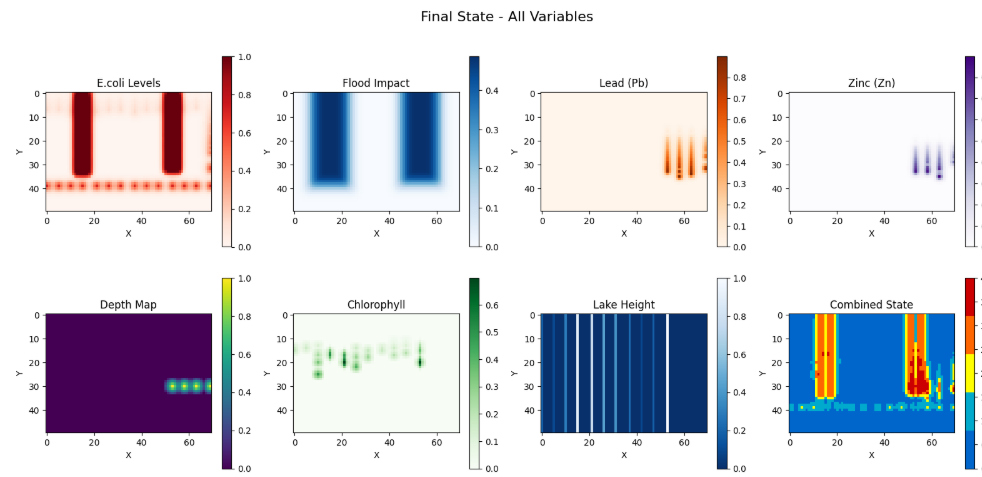
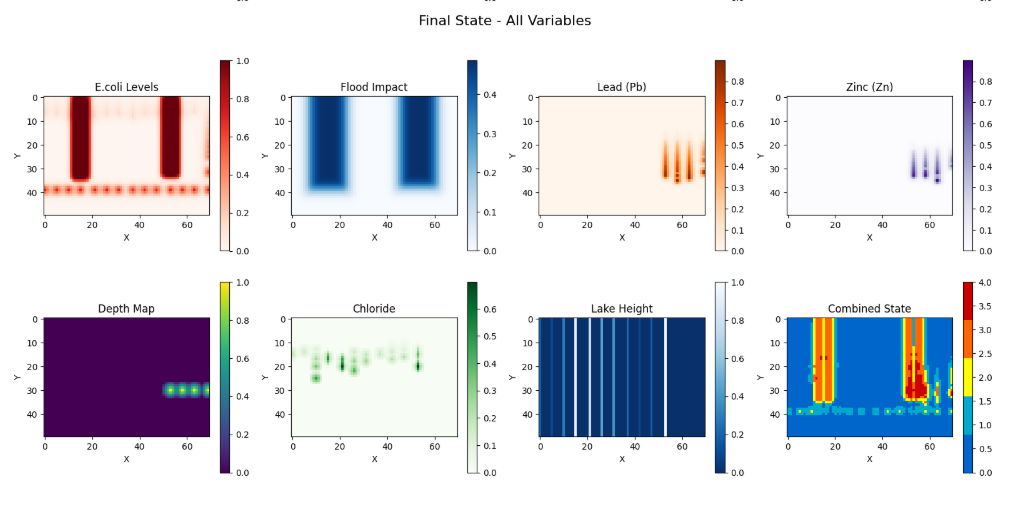
commit new photos
commit new photos

Changed region(s): [[0.0, 0.1174, 1.0, 0.9979], [0.3971, 0.0, 0.611, 0.0587]]

diff --git a/code/StatisticsComponents/CorrelationScatter.jsx b/code/StatisticsComponents/CorrelationScatter.jsx
@@ -106,7 +106,7 @@ export default function CorrelationScatter() {
       const url = canvas.toDataURL('image/jpeg', 1.0);
       const link = document.createElement('a');
       link.href = url;
-      link.download = 'chlorophyll-ecoli-correlation.jpg';
+      link.download = 'Chloride-ecoli-correlation.jpg';
       document.body.appendChild(link);
       link.click();
       document.body.removeChild(link);
@@ -124,7 +124,7 @@ export default function CorrelationScatter() {
           <div className="bg-white border rounded-lg p-4">
             <div className="flex justify-between items-center mb-4">
               <h3 className="text-lg font-bold">
-                Correlation: Chlorophyll-a vs E.coli
+                Correlation: Chloride vs E.coli
               </h3>
               <button
                 onClick={handleDownload}
@@ -143,7 +143,7 @@ export default function CorrelationScatter() {
                 data={{
                   datasets: [
                     {
-                      label: 'Chlorophyll-a vs E.coli',
+                      label: 'Chloride vs E.coli',
                       data: mergedPoints,
                       backgroundColor: 'rgba(54,162,235,0.6)',
                       borderColor: 'rgba(54,162,235,1)',
@@ -175,7 +175,7 @@ export default function CorrelationScatter() {
                         label: function(context) {
                           if (context.datasetIndex === 0) {
                             const point = mergedPoints[context.dataIndex];
-                            return `Chlorophyll-a: ${context.parsed.x.toFixed(2)}, E.coli: ${context.parsed.y.toFixed(2)} (${point?.year}/${point?.month})`;
+                            return `Chloride: ${context.parsed.x.toFixed(2)}, E.coli: ${context.parsed.y.toFixed(2)} (${point?.year}/${point?.month})`;
                           }
                           return context.dataset.label;
                         }
@@ -186,7 +186,7 @@ export default function CorrelationScatter() {
                     x: {
                       title: { 
                         display: true, 
-                        text: 'Chlorophyll-a (µg/L)', 
+                        text: 'Chloride (µg/L)', 
                         font: { size: 14, weight: 'bold' } 
                       },
                       grid: { color: 'rgba(0,0,0,0.1)' },
@@ -214,7 +214,7 @@ export default function CorrelationScatter() {
                 </div>
                 {crossTableCorrelation !== null && (
                   <div className="mt-1 text-xs text-blue-700 text-center">
-                    A low correlation coefficient between chlorophyll and E.coli can actually indicate a positive or normal situation regarding pollution.
+                    A low correlation coefficient between Chloride and E.coli can actually indicate a positive or normal situation regarding pollution.
                   </div>
                 )}
                 {crossTableCorrelation !== null && (

diff --git a/code/StatisticsComponents/ChemicalChart.jsx b/code/StatisticsComponents/ChemicalChart.jsx
@@ -60,7 +60,7 @@ const ChemicalChart = ({ chartData, hasAnimated }) => {
             onChange={(e) => setSelectedChemical(e.target.value)}
             className="border rounded px-3 py-1 text-sm"
           >
-            <option value="chlorophyll">Chlorophyll-a</option>
+            <option value="chlorophyll">Chloride</option>
             <option value="nitrate">Nitrate</option>
             <option value="nitrite">Nitrite</option>
           </select>
@@ -168,8 +168,8 @@ const ChemicalChart = ({ chartData, hasAnimated }) => {
             <div className="mt-4 px-2 text-gray-700 text-sm text-left">
               {selectedChemical === 'chlorophyll' ? (
                 <>
-                  <b>What is measured?</b> Chlorophyll‑a is a marker for algal biomass and blooms. High values indicate nutrient enrichment (eutrophication) and reduced water clarity.<br/>
-                  <b>Trends:</b> An increase over the months may indicate seasonal blooms or pollution, while a decrease suggests cleaner water.
+                  <b>What is measured?</b> Chloride (mg/L) is a common ion in water, often originating from natural sources or pollution such as road salts and sewage. High values may indicate contamination.<br/>
+      <b>Trends:</b> An increase over the months may indicate pollution or saltwater intrusion, while a decrease suggests improving water quality.
                 </>
               ) : selectedChemical === 'nitrate' ? (
                 <>

diff --git a/code/StatisticsComponents/ChemicalExtremesBar.jsx b/code/StatisticsComponents/ChemicalExtremesBar.jsx
@@ -73,12 +73,12 @@ const ChemicalExtremesBar = () => {
     if (activeChemical === 'chl') {
       datasets = [
         {
-          label: 'Max Chlorophyll-a',
+          label: 'Max Chloride',
           data: years.map(y => yearly[y].chl.length ? Math.max(...yearly[y].chl) : null),
           backgroundColor: 'rgba(34,197,94,0.7)'
         },
         {
-          label: 'Min Chlorophyll-a',
+          label: 'Min Chloride',
           data: years.map(y => yearly[y].chl.length ? Math.min(...yearly[y].chl) : null),
           backgroundColor: 'rgba(34,197,94,0.5)'
         }
@@ -126,7 +126,7 @@ const ChemicalExtremesBar = () => {
           value={activeChemical}
           onChange={e => setActiveChemical(e.target.value)}
         >
-          <option value="chl">Chlorophyll-a</option>
+          <option value="chl">Chloride</option>
           <option value="nitrate">Nitrate</option>
           <option value="nitrit">Nitrite</option>
         </select>

diff --git a/code/StatisticsComponents/StatisticsDashboard.jsx b/code/StatisticsComponents/StatisticsDashboard.jsx
@@ -80,7 +80,7 @@ const StatisticsDashboard = () => {
       icon: '📊',
       color: 'purple',
       tabs: [
-        { id: 'scatter', label: 'Chlorophyll vs E.coli' },
+        { id: 'scatter', label: 'Chloride vs E.coli' },
         { id: 'yearly', label: 'Pollutants Yearly Trends' }
       ]
     }
